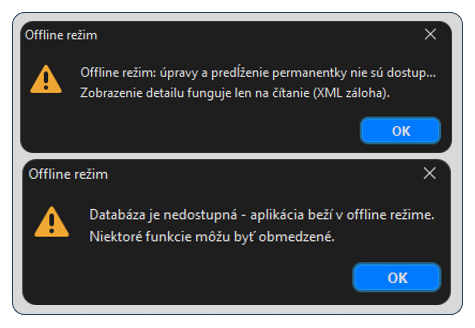
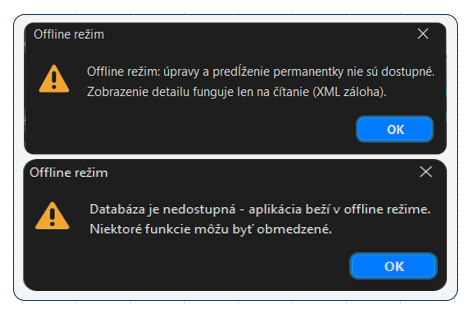
Pridana vizualna galeria rozhrania aplikacie

Changed region(s): [[0.0, 0.0285, 0.9788, 0.9684]]

diff --git a/docs/README_GALERIA.md b/docs/README_GALERIA.md
@@ -1,0 +1,151 @@
+# Galéria rozhrania aplikácie
+
+ Táto stránka obsahuje vizuálnu dokumentáciu používateľského rozhrania aplikácie – jednotlivé obrazovky systému, formuláre a funkcie.
+
+---
+## Obsah
+- [Hlavné menu](#hlavné-menu)
+- [Správa klientov](#správa-klientov)
+- [QR systém](#qr-systém)
+- [Hybridný režim](#hybridný-režim)
+- [História vstupov](#história-vstupov)
+- [Systémové logy](#systémové-logy)
+- [Späť na hlavné README.md](../README.md)
+---
+
+## Hlavné menu
+Hlavné menu poskytuje prístup k hlavným funkciám aplikácie na správu klientov.
+Umožňuje prechod do sekcií registrácie klienta, vyhľadávania, zoznamu klientov, histórie vstupov, skenera ID a záznamov logov.
+
+![Hlavne_okno](../screenshots/01_Hlavne_okno.png)
+
+---
+## Správa klientov
+
+### Registrácia klienta
+
+Formulár na vytvorenie nového klienta v systéme.
+
+![02_Registracia klienta.png](../screenshots/02_Registracia.png)
+
+### Validácia formulára
+
+Systém kontroluje správnosť zadaných údajov a upozorní na chybný vstup.
+
+![Validácia](../screenshots/07_Validacia.png)
+
+### Vyhľadávanie klienta
+
+Vyhľadávanie klientov podľa mena alebo priezviska s podporou výberu pri viacerých výsledkoch.
+
+![Vyhladavanie](../screenshots/08_Vyhladavanie.png)
+
+### Detail klienta
+
+Zobrazuje kompletné informácie o klientovi vrátane QR identifikátora,
+ktorý sa automaticky generuje pri registrácii klienta.
+
+![Detail_klienta](../screenshots/03_Detail_klienta.png)
+
+### Úprava klienta
+
+Formulár umožňuje zobraziť a upraviť údaje existujúceho klienta v systéme.
+Používateľ môže aktualizovať osobné údaje klienta a uložiť vykonané zmeny.
+
+![Uprava_klienta](../screenshots/04_Uprava_klienta.png)
+
+### Oznámenia
+
+Systém zobrazuje informačné a potvrdzovacie okná pri vykonávaní dôležitých operácií, ako je napríklad predĺženie permanentky alebo vymazanie klienta.
+
+![Oznamenia](../screenshots/05_Oznamenia.png)
+
+- [Späť na obsah](#obsah)
+---
+
+## Zoznam klientov
+
+Tabuľkový prehľad všetkých klientov uložených v systéme vrátane údajov
+o permanentke a dátume registrácie.
+
+![Zoznam klientov](../screenshots/16_Zoznam_klientov.png)
+- [Späť na obsah](#obsah)
+---
+
+## QR systém
+
+### Obnovenie QR kódu
+
+QR kód klienta je možné znovu vygenerovať v režime úpravy klienta.
+Používa sa napríklad pri strate alebo kompromitovaní pôvodného identifikátora.
+
+![15_Obnova_QR kódu.png](../screenshots/15_Obnova_QR.png)
+
+### Tlač QR kódu
+
+Pri použití funkcie vytlačiť QR aplikácia uloží QR kód klienta ako obrázok do výstupného priečinka aplikácie, odkiaľ je možné ho následne vytlačiť.
+
+![18_vystup_QR kódu.png](../screenshots/18_vystup.png)
+Ilustračný príklad uloženého QR kódu vo výstupnom priečinku aplikácie.
+
+### Skenovanie vstupu
+
+Simulácia vstupu klienta pomocou QR identifikátora.
+
+![09_Simulacia_QR.png](../screenshots/09_Simulacia_QR.png)
+- [Späť na obsah](#obsah)
+---
+
+## Hybridný režim
+
+Aplikácia automaticky prejde do offline režimu pri nedostupnej databáze.
+
+![10_Hybrid.png](../screenshots/10_Hybrid.png)
+
+![11_Hybrid.png](../screenshots/11_Hybrid.png)
+
+### Offline režim
+
+- zobrazenie upozornenia pre zamestnanca
+- obmedzenie niektorých funkcií
+- čítanie dát z XML zálohy
+
+![17_Hlasenie.png](../screenshots/17_Hlasenie.png)
+- [Späť na obsah](#obsah)
+---
+
+## História vstupov
+
+### Globálna história vstupov
+
+Prehľad všetkých zaznamenaných vstupov klientov do systému.
+
+![13_Historia_Vstupov.png](../screenshots/13_Historia_Vstupov.png)
+
+### História vstupov klienta
+
+Zobrazuje chronologický prehľad všetkých vstupov konkrétneho klienta do systému.
+Obsahuje informácie o čase vstupu, výsledku kontroly a použitom režime systému
+(online databáza alebo offline XML záloha).
+
+![14_Historia_Klienta.png](../screenshots/14_Historia_Klienta.png)
+
+---
+
+## Systémové logy
+
+Prehľad interných systémových udalostí aplikácie.
+Logy obsahujú informácie o stave aplikácie, pripojení k databáze,
+chybových hláseniach a diagnostických správach pre monitoring systému.
+
+![12_Systemovy_Log.png](../screenshots/12_Systemovy_Log.png)
+
+---
+
+### [Späť na obsah](#obsah)
+
+Odkaz: [Späť na hlavné README.md](../README.md)
+
+
+
+
